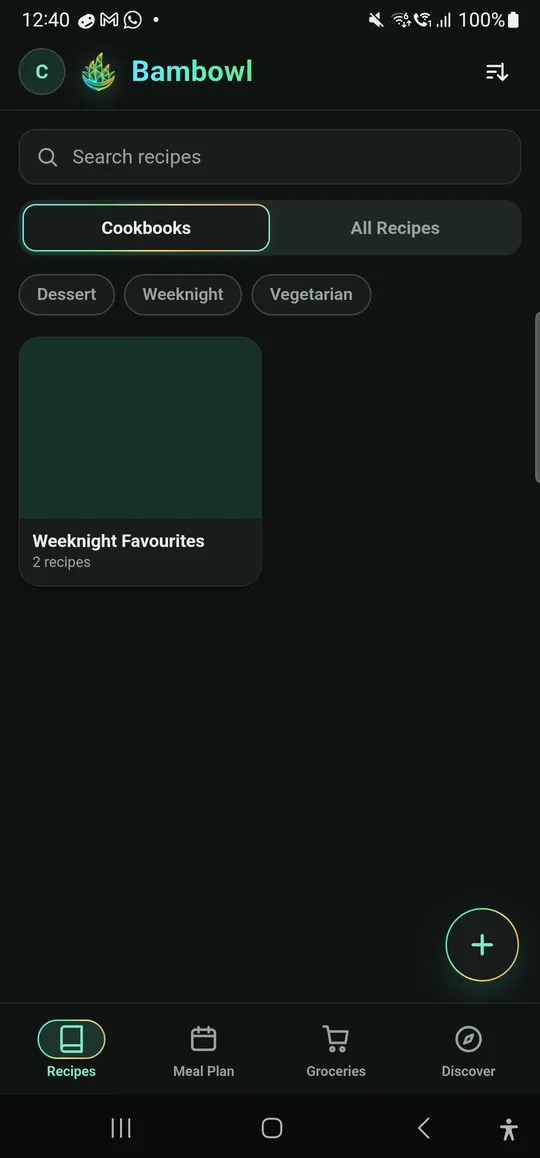
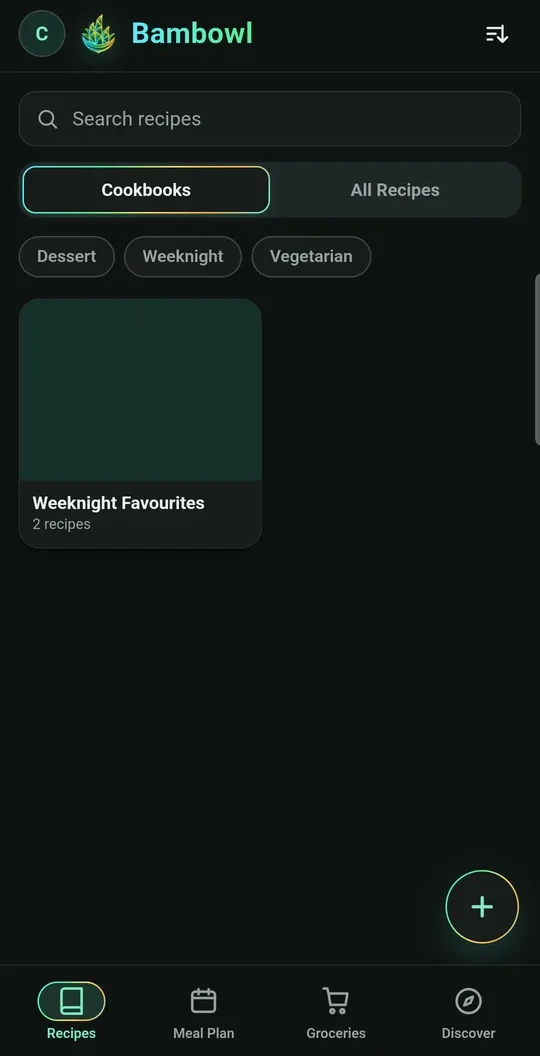
Play-style screenshots (clean or phone outline), Store listing folder so new apps publish without the hub chat, downloads shown as 5+/100+ without zgs and owner downloads, zgs mine
Claude-Session: https://claude.ai/code/session_01Fe1zcqcERRZoiRJehKhHNR

diff --git a/assets/site.css b/assets/site.css
@@ -86,8 +86,14 @@ nav a:hover { color: var(--text); background: var(--bg2); text-decoration: none;
 code { font: 12px/1.5 ui-monospace, Consolas, monospace; color: #c7d2fe; overflow-wrap: anywhere; }
 pre { background: var(--bg2); border: 1px solid var(--line); border-radius: 10px; padding: 12px; overflow-x: auto; }
 .copy { font: inherit; font-size: 12px; color: var(--text); background: var(--bg2); border: 1px solid var(--line2); border-radius: 8px; padding: 3px 10px; cursor: pointer; }
-.shots { display: flex; gap: 12px; overflow-x: auto; padding-bottom: 8px; scroll-snap-type: x mandatory; }
-.shots img { width: 220px; height: auto; flex: none; border-radius: 14px; border: 1px solid var(--line2); scroll-snap-align: start; }
+/* screenshots: sideways strip like Google Play */
+.shots { display: flex; gap: 12px; overflow-x: auto; padding: 4px 2px 12px; scroll-snap-type: x mandatory; scrollbar-width: thin; }
+.shots img { display: block; height: 400px; width: auto; max-width: none; border-radius: 16px; border: 1px solid var(--line2); background: var(--bg2); }
+.shots .shot.wide img { height: 300px; border-radius: 10px; }
+.style-phone .shot:not(.wide) { padding: 10px 6px; border-radius: 30px; background: #0b0f17; border: 2px solid #2b3446; box-shadow: 0 6px 20px rgba(0,0,0,.35); position: relative; }
+.style-phone .shot:not(.wide)::before { content: ""; position: absolute; top: 3px; left: 50%; width: 6px; height: 6px; margin-left: -3px; border-radius: 50%; background: #2b3446; }
+.style-phone .shot:not(.wide) img { height: 380px; border: 0; border-radius: 20px; }
+@media (max-width: 560px) { .shots img { height: 340px; } .style-phone .shot:not(.wide) img { height: 320px; } .shots .shot.wide img { height: 200px; } }
 .feat { padding-left: 20px; } .feat li { margin: 4px 0; }
 .versions { list-style: none; padding: 0; margin: 0; }
 .versions > li { border-left: 2px solid var(--line2); padding: 2px 0 18px 18px; position: relative; }
@@ -141,7 +147,6 @@ pre { background: var(--bg2); border: 1px solid var(--line); border-radius: 10px
 .linkish { font: inherit; color: var(--cyan); background: none; border: 0; padding: 0; cursor: pointer; }
 .linkish:hover { text-decoration: underline; }
 .shot { padding: 0; border: 0; background: none; cursor: zoom-in; flex: none; scroll-snap-align: start; }
-.shots .shot img { width: 220px; }
 .older { margin-top: 4px; }
 .older > summary { cursor: pointer; color: var(--cyan); font-size: 14px; margin-bottom: 14px; }
 .versions > li { scroll-margin-top: 80px; }

diff --git a/README.md b/README.md
@@ -63,10 +63,16 @@ Command-line form: `node tools/zgs.mjs publish bambowl --dry-run` (checks only).
 
 ## Adding an app
 
-1. Create `data/apps/<id>.json` (copy an existing one). For Android, get the `certSha256` with
-   `apksigner verify --print-certs <apk>`.
-2. Put `icon.webp` (256×256) and any screenshots in `content/apps/<id>/`.
-3. Add the app's `Finished Apps` folder to `tools/zgs.config.json`, commit, then publish.
+Normally nothing to do here: put a `Store listing` folder next to the app's builds in Finished Apps
+(`Studio Standards\README.md` section 9 explains it). Publish then lists it as "new app, not on Zenith
+yet" and creates `data/apps/<id>.json`, `content/apps/<id>/` and the zgs.config.json entry itself.
+The same folder updates the page text, icon, screenshots and policy section on later releases.
+
+## Download counts
+
+GitHub counts every download. zgs leaves out its own check downloads, and `zgs mine <app>` (or
+"m" in the menu) leaves out one you made yourself. The page shows rounded figures like Google
+Play ("5+", "100+"); `zgs status` shows the exact numbers. Nothing about who downloaded is recorded.
 
 ## Previewing locally
 
